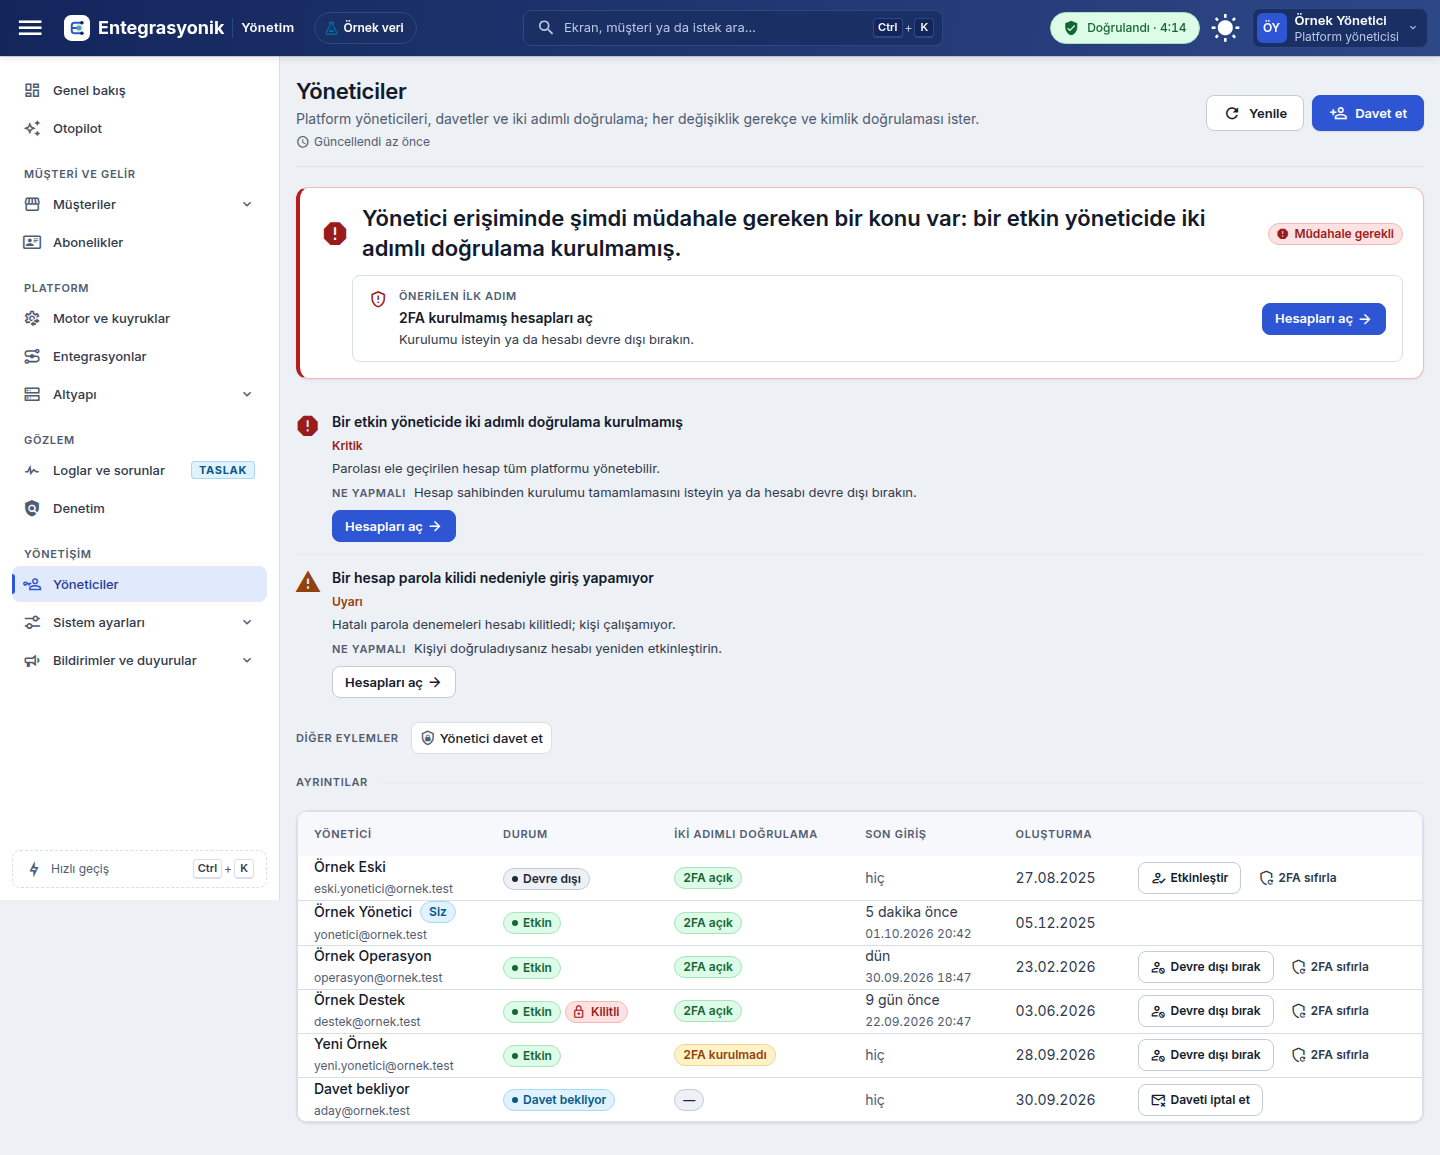
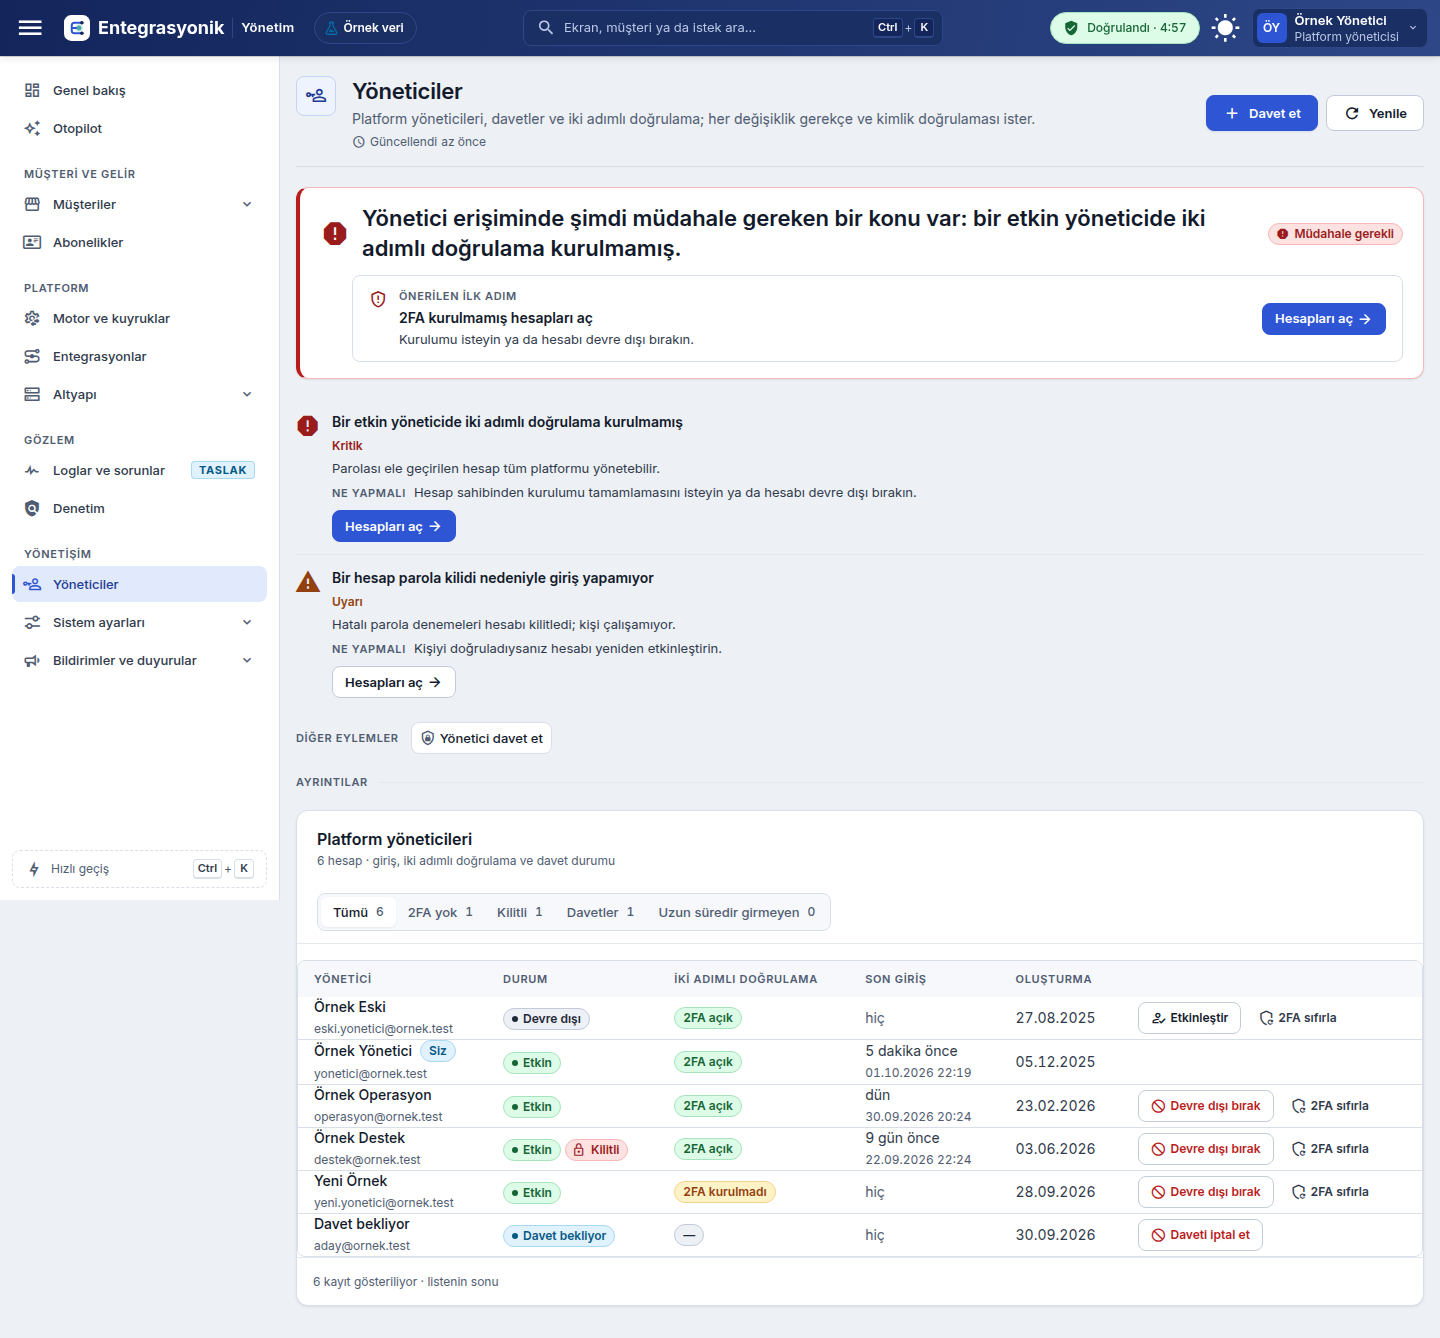
bo-r2b-cloud: ara kayıt (WIP) — motor ve sistem ayarları sürüyor
Claude-Session: https://claude.ai/code/session_019xX3CSc7799JfQKjDkUJwj

diff --git a/frontend/backoffice/src/views/settings/CompetitionOverridesPanel.vue b/frontend/backoffice/src/views/settings/CompetitionOverridesPanel.vue
@@ -1,6 +1,6 @@
 <!-- Tenant istisnaları: plan değerini alan alan geçersiz kılan müşteriler. Düzenleme OverrideDialog (gerekçeli, denetime yazılır). -->
 <template>
-  <BoSection id="bo-cs-ovr" flush title="Müşteri istisnaları" description="Belirli bir müşteri için plan değerini geçersiz kılar; boş bırakılan alan plan değerini kullanır. Kayıt anında etkilidir (taslak/yayın yok), gerekçe ister." data-testid="competition-overrides">
+  <BoSection id="bo-cs-ovr" flush title="Müşteri istisnaları" :description="description" data-testid="competition-overrides">
     <template #actions>
       <BoAction kind="add" label="İstisna ekle" :disabled="cs.comp.phase !== 'ready'" data-testid="override-add" @click="cs.openEditor()" />
     </template>
@@ -66,7 +66,6 @@
       </StateBlock>
     <template v-if="overrides.length" #footer>
       <BoPagination :count="overrides.length" :has-more="false" source="BackofficeBillingService/getCompetitionSettings" />
-      <p class="bo-co__legend">{{ overrides.length >= 200 ? 'En çok 200 istisna gösterilir. ' : '' }}Etkin değerlerde kalın yazı istisnayı, düz yazı plan değerini gösterir.</p>
     </template>
   </BoSection>
 </template>
@@ -85,6 +84,9 @@ import { FIELDS, beforeAfterRows, describeOverride, formatFieldValue } from './c
 import '@bo/styles/kit.css'
 
 const props = defineProps<{ cs: CompetitionState }>()
+const description = computed(
+  () => `Belirli bir müşteri için plan değerini geçersiz kılar; boş bırakılan alan plan değerini kullanır. Kayıt anında etkilidir (taslak/yayın yok), gerekçe ister. Etkin değerlerde kalın yazı istisnayı, düz yazı plan değerini gösterir.${overrides.value.length >= 200 ? ' En çok 200 istisna gösterilir.' : ''}`,
+)
 const overrides = computed(() => props.cs.comp.data?.overrides ?? [])
 const phase = computed(() => (props.cs.comp.phase === 'ready' && !overrides.value.length ? 'empty' : props.cs.comp.phase))
 const rows = computed(() => (props.cs.lastChange ? beforeAfterRows(props.cs.lastChange.before, props.cs.lastChange.after, props.cs.lastChange.effective) : []))

diff --git a/frontend/backoffice/src/views/settings/HistoryPanel.vue b/frontend/backoffice/src/views/settings/HistoryPanel.vue
@@ -1,5 +1,5 @@
 <template>
-  <BoSection id="bo-hist" flush title="Yayın geçmişi" description="Son 20 sürüm. Geri alma, eski sürümün içeriğini yeni bir sürüm olarak yayınlar.">
+  <BoSection id="bo-hist" flush class="bo-flushed" title="Yayın geçmişi" description="Son 20 sürüm. Geri alma, eski sürümün içeriğini yeni bir sürüm olarak yayınlar.">
     <BoDataTable :items="rows" :columns="COLUMNS" row-key="version" label="Yayınlanan sürümler" :phase="rows.length ? 'ready' : 'empty'" empty-title="Henüz yayın yok" empty-message="İlk yayın yapıldığında sürümler burada listelenir; şu an varsayılan değerler geçerli.">
           <template #cell-version="{ item }">
             <span class="bo-cell-stack"><span class="ek-num">v{{ (item as Row).version }}</span><EkStatusChip v-if="(item as Row).status === 'published'" tone="success" label="Yayında" dot /></span>
@@ -48,3 +48,13 @@ function summary(diff: ConfigDiffEntry[] | null): string {
   return `${keys.length} ayar: ${keys.slice(0, 3).join(', ')}${keys.length > 3 ? ` +${keys.length - 3}` : ''}`
 }
 </script>
+
+<style scoped>
+.bo-flushed :deep(.bo-section__body) {
+  padding-top: var(--ek-space-4);
+}
+.bo-flushed :deep(.ek-data-table) {
+  border-width: 1px 0 0;
+  border-radius: 0;
+}
+</style>

diff --git a/frontend/backoffice/src/views/settings/EnvPanel.vue b/frontend/backoffice/src/views/settings/EnvPanel.vue
@@ -1,5 +1,5 @@
 <template>
-  <BoSection id="bo-env" flush title="Ortam (salt okunur)" description="Bu değerler sunucu ortam değişkenlerinden gelir; burada düzenlenemez ve hiçbir kaydetme isteğine girmez. Sır, CORS ve bağlantı dizesi gösterilmez.">
+  <BoSection id="bo-env" flush class="bo-flushed" title="Ortam (salt okunur)" description="Bu değerler sunucu ortam değişkenlerinden gelir; burada düzenlenemez ve hiçbir kaydetme isteğine girmez. Sır, CORS ve bağlantı dizesi gösterilmez.">
     <template #actions><EkRefreshButton quiet-success :loading="env.refreshing.value" @refresh="env.load()" /></template>
       <StateBlock :phase="env.phase.value" :error="env.error.value" skeleton="form" :rows="3" error-title="Ortam bilgisi okunamadı" @retry="env.load()">
         <dl class="bo-env">
@@ -60,6 +60,9 @@ onMounted(() => env.load())
 </script>
 
 <style scoped>
+.bo-flushed :deep(.bo-section__body) {
+  padding-top: var(--ek-space-3);
+}
 .bo-env {
   display: flex;
   flex-direction: column;

diff --git a/frontend/backoffice/src/views/admins/AdminsView.vue b/frontend/backoffice/src/views/admins/AdminsView.vue
@@ -9,7 +9,7 @@
 
     <PageVerdict :verdict="verdict" />
 
-    <BoSection id="bo-admins" flush title="Platform yöneticileri" :description="`${items.length} hesap · giriş, iki adımlı doğrulama ve davet durumu`">
+    <BoSection id="bo-admins" flush class="bo-flushed" title="Platform yöneticileri" :description="`${items.length} hesap · giriş, iki adımlı doğrulama ve davet durumu`">
       <template #default>
         <BoFilterBar label="Yönetici süzgeci" :active="filter === 'all' ? 0 : 1" class="bo-admin__filter" @clear="filter = 'all'">
           <BoSegmented v-model="filter" :options="FILTER_OPTIONS" label="Yönetici süzgeci" />
@@ -259,6 +259,13 @@ onMounted(() => res.load())
 </script>
 
 <style scoped>
+.bo-flushed :deep(.ek-data-table) {
+  border-width: 0;
+  border-radius: 0;
+}
+.bo-flushed :deep(.bo-section__body) {
+  padding-top: var(--ek-space-3);
+}
 .bo-admin__name {
   display: inline-flex;
   flex-wrap: wrap;

diff --git a/frontend/backoffice/src/views/engine/FailedJobsPanel.vue b/frontend/backoffice/src/views/engine/FailedJobsPanel.vue
@@ -503,12 +503,12 @@ onMounted(async () => {
   font-weight: var(--ek-type-label-weight);
 }
 .bo-failed__cause {
-  min-width: 14em;
+  min-width: 0;
   color: var(--ek-color-content-strong);
   font-weight: var(--ek-type-label-weight);
 }
 .bo-failed__reason {
-  min-width: 16em;
+  min-width: 11em;
 }
 .bo-failed__times {
   white-space: nowrap;
